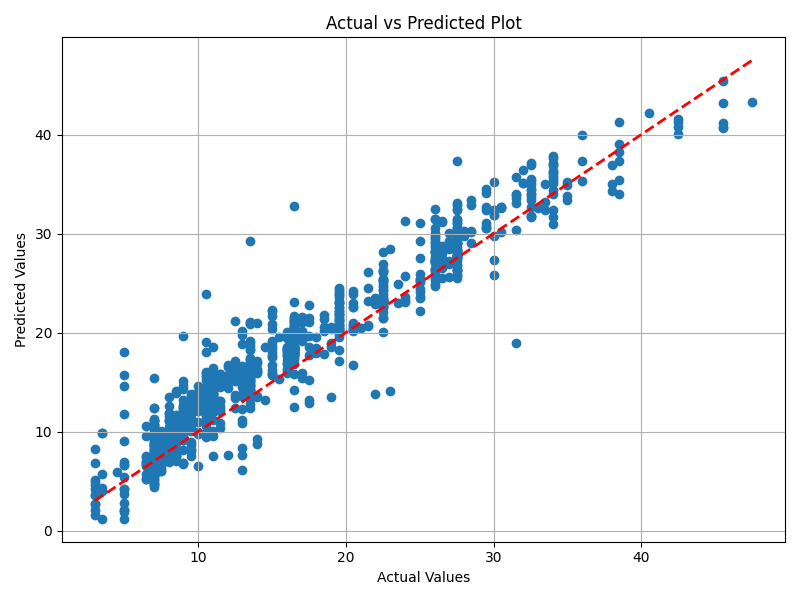
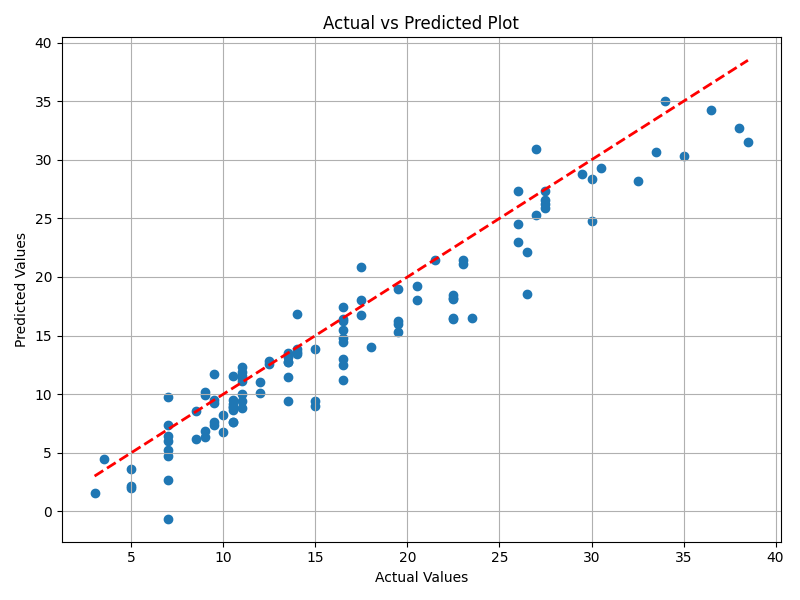
Add and version data sample

diff --git a/src/model.py b/src/model.py
@@ -45,7 +45,7 @@ def train(X_train, y_train, cfg):
         n_jobs = cfg.cv_n_jobs,
         refit = evaluation_metric,
         cv = cv,
-        verbose = 2,
+        verbose = 1,
         return_train_score = True
     )
 
@@ -110,20 +110,6 @@ def log_metadata(cfg, gs, X_train, y_train, X_test, y_test):
             fig.savefig(plt_path)
             mlflow.log_artifact(plt_path, artifact_path=artifact_path)
 
-        predictions = gs.best_estimator_.predict(X_test)
-        residuals = y_test - predictions
-
-        # Actual vs Predicted Plot
-        fig, ax = plt.subplots(figsize=(8, 6))
-        ax.scatter(y_test, predictions)
-        ax.plot([y_test.min(), y_test.max()], [y_test.min(), y_test.max()], '--r', lw=2)
-        ax.set_xlabel('Actual Values')
-        ax.set_ylabel('Predicted Values')
-        ax.set_title('Actual vs Predicted Plot')
-        ax.grid(True)
-        plt.tight_layout()
-        save_plot(fig, "actual_vs_predicted_plot")
-
         # Infer the model signature
         signature = mlflow.models.infer_signature(X_train, gs.predict(X_train))
 
@@ -181,7 +167,9 @@ def log_metadata(cfg, gs, X_train, y_train, X_test, y_test):
                 loaded_model = mlflow.sklearn.load_model(model_uri=model_uri)
 
                 predictions = loaded_model.predict(X_test)
+                residuals = y_test - predictions
 
+                # Actual vs Predicted Plot
                 fig, ax = plt.subplots(figsize=(8, 6))
                 ax.scatter(y_test, predictions)
                 ax.plot([y_test.min(), y_test.max()], [y_test.min(), y_test.max()], '--r', lw=2)
@@ -191,6 +179,26 @@ def log_metadata(cfg, gs, X_train, y_train, X_test, y_test):
                 ax.grid(True)
                 plt.tight_layout()
                 save_plot(fig, "actual_vs_predicted_plot")
+
+                # Distribution of Residuals
+                fig, ax = plt.subplots(figsize=(8, 6))
+                sns.histplot(residuals, kde=True, ax=ax)
+                ax.set_title('Distribution of Residuals')
+                ax.set_xlabel('Residuals')
+                ax.grid(True)
+                plt.tight_layout()
+                save_plot(fig, "distribution_of_residuals")
+
+                # Residuals vs. Fitted Values Plot
+                fig, ax = plt.subplots(figsize=(8, 6))
+                ax.scatter(predictions, residuals)
+                ax.axhline(y=0, color='r', linestyle='--')
+                ax.set_xlabel('Fitted Values')
+                ax.set_ylabel('Residuals')
+                ax.set_title('Residuals vs Fitted Values')
+                ax.grid(True)
+                plt.tight_layout()
+                save_plot(fig, "residuals_vs_fitted_plot")
 
                 eval_data = pd.DataFrame(y_test)
                 eval_data.columns = ["label"]
@@ -206,12 +214,10 @@ def log_metadata(cfg, gs, X_train, y_train, X_test, y_test):
 
                 print(f"metrics:\n{results.metrics}")
 
-            
-        dst_path = "results"
-        if not os.path.exists(dst_path):
-            os.makedirs(dst_path)
-        artifact_uri = mlflow.get_artifact_uri(artifact_path="plots")
-        mlflow.artifacts.download_artifacts(artifact_uri=artifact_uri, dst_path=dst_path)
+                dst_path = "results"
+                artifact_uri = mlflow.get_artifact_uri(artifact_path="plots")
+                mlflow.artifacts.download_artifacts(artifact_uri=artifact_uri, dst_path=dst_path)
+
 
 def get_models_with_alias(model_name,model_alias, return_version = False):
     client = mlflow.MlflowClient()

diff --git a/src/main.py b/src/main.py
@@ -6,13 +6,13 @@ from sklearn.model_selection import train_test_split
 def run(cfg):
     train_data_version = cfg.train_data_version
 
-    X, y = extract_features(name = "features_target", version=train_data_version, random_state = cfg.random_state)
+    X, y = extract_features(name = "features_target", version=train_data_version)
 
     X_train, X_val, y_train, y_val = train_test_split(X, y, test_size=cfg.test_size, random_state=cfg.random_state) 
 
     test_data_version = cfg.test_data_version
 
-    X_test, y_test = extract_features(name = "features_target", version=test_data_version, random_state = cfg.random_state)
+    X_test, y_test = extract_features(name = "features_target", version=test_data_version)
 
     gs = train(X_train, y_train, cfg=cfg)
 
